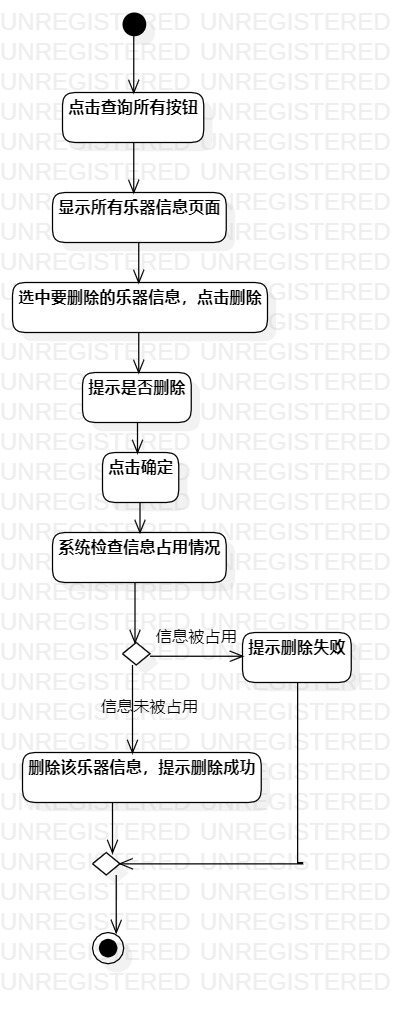
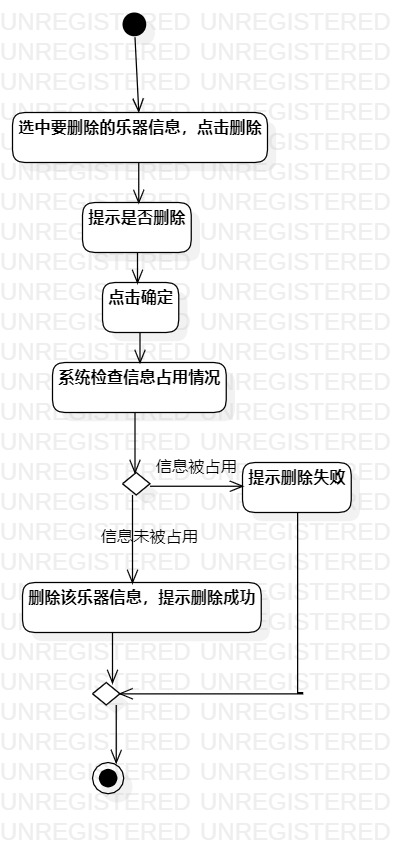
#2 #3 #6 #216 修改了实验2与实验3并提交实验6

diff --git a/students/1714080902102/lab2.md b/students/1714080902102/lab2.md
@@ -41,9 +41,9 @@
 | 用例名称 | 录入乐器信息                          |
 | 前置条件 | 系统负责人进入录入信息界面                   |
 | 基本流程 | 1.系统负责人点击录入按钮；                  |
-| ~    | 2.系统显示录入页面；                     |
-| ~    | 3.系统负责人录入乐器各方面的信息，然后点击确定；       |
-|      | 4.系统检查录入信息；                     |
+| ~    | 2.系统负责人录入乐器各方面的信息；              |
+| ~    | 3.系统负责人点击确定；                    |
+| ~    | 4.系统检查录入信息；                     |
 | ~    | 5.系统保存信息，并提示“**录入成功**”。         |
 | 扩展流程 | 4.1系统发现录入信息有重复，并提示“**请勿重复录入**”。 |
 
@@ -54,21 +54,21 @@
 | 用例名称 | 查询乐器信息                             |
 | 前置条件 | 用户进入乐器查询界面                         |
 | 基本流程 | 1. 用户点击搜索框；                        |
-| ~    | 2. 用户输入乐器名称，点击搜索；                  |
-| ~    | 3.系统检查输入的乐器名称；                     |
-|      | 4.系统显示乐器相关的信息；                     |
-|      | 3.1系统检查输入的乐器名称为空，提示“**乐器名称不能为空**”； |
+| ~    | 2. 用户输入乐器名称；                       |
+| ~    | 3.用户点击搜索；                          |
+| ~    | 4.系统检查输入的乐器名称；                     |
+| ~    | 5.系统显示乐器相关的信息；                     |
+| 扩展流程 | 4.1系统检查输入的乐器名称为空，提示“**乐器名称不能为空**”； |
 ## 表3：删除乐器信息用例规约
 
 | 用例编号 | UC03                             |
 | ---- | -------------------------------- |
 | 用例名称 | 删除乐器信息                           |
-| 前置条件 | 系统负责人进入删除信息界面                    |
-| 基本流程 | 1.系统负责人点击查询所有按钮；                 |
-| ~    | 2.系统显示所有乐器信息的页面；                 |
-| ~    | 3.系统负责人选中想要删除的乐器信息，点击删除；         |
-| ~    | 4.系统**跳出**提出框，提示“**是否删除？**”；     |
-| ~    | 5.系统负责人点击确定；                     |
-|      | 6.系统检查信息占用情况；                    |
-| ~    | 7.系统删除该乐器信息，并提示“**删除成功**”；       |
-| 扩展流程 | 6.1 系统删除失败，提示“**信息被占用，请稍后再删除**”； |
+| 前置条件 | 系统负责人进入删除乐器信息界面                  |
+| 基本流程 | 1.系统负责人选中想要删除的乐器信息；              |
+| ~    | 2.系统负责人点击删除；                     |
+| ~    | 3.系统**跳出**提出框，提示“**是否删除？**”；     |
+| ~    | 4.系统负责人点击确定；                     |
+| ~    | 5.系统检查信息占用情况；                    |
+| ~    | 6.系统删除该乐器信息，并提示“**删除成功**”；       |
+| 扩展流程 | 5.1 系统删除失败，提示“**信息被占用，请稍后再删除**”； |

diff --git a/students/1714080902102/lab6.md b/students/1714080902102/lab6.md
@@ -1,0 +1,54 @@
+# 实验六: 交互建模
+
+## 一、实验目标
+
+- 理解系统交互；
+- 了解对象的概念
+- 掌握UML顺序图的画法；
+- 掌握对象交互的定义与建模方法。
+
+## 二、实验内容
+
+- 根据用例模型和类模型，确定功能所涉及的系统对象；
+
+  1.查看宠物信息顺序图
+
+  2.录入宠物信息顺序图
+
+  3.修改宠物信息顺序图
+
+- 在顺序图上画出参与者（对象）；
+
+- 在顺序图上画出消息（交互）
+
+- 在顺序图上画出存活条（从上到下）
+
+- 在顺序图上画出时间（从上到下）
+
+## 三、实验步骤
+
+- 在StarUml中创建顺序图 1.查看宠物信息 2.录入宠物信息 3.修改宠物信息
+
+- 从用例规约中的寻找参与者
+
+- 根据类图中寻找类
+
+- 根据活动图绘制消息、存活条和顺序
+
+  1 消息：画在存活条上，从上到下代表时间顺序
+
+  2 返回：从上到下代表时间顺序
+
+## 四、实验结果
+
+![录入乐器信息顺序图](./lab6_录入乐器信息顺序图.jpg)
+
+图1 录入乐器信息顺序图
+
+![查询乐器信息顺序图](./lab6_查询乐器信息顺序图.jpg)
+
+图2 查询乐器信息顺序图 
+
+![删除乐器信息顺序图](./lab6_删除乐器信息顺序图.jpg)
+
+图3 删除乐器信息顺序图
